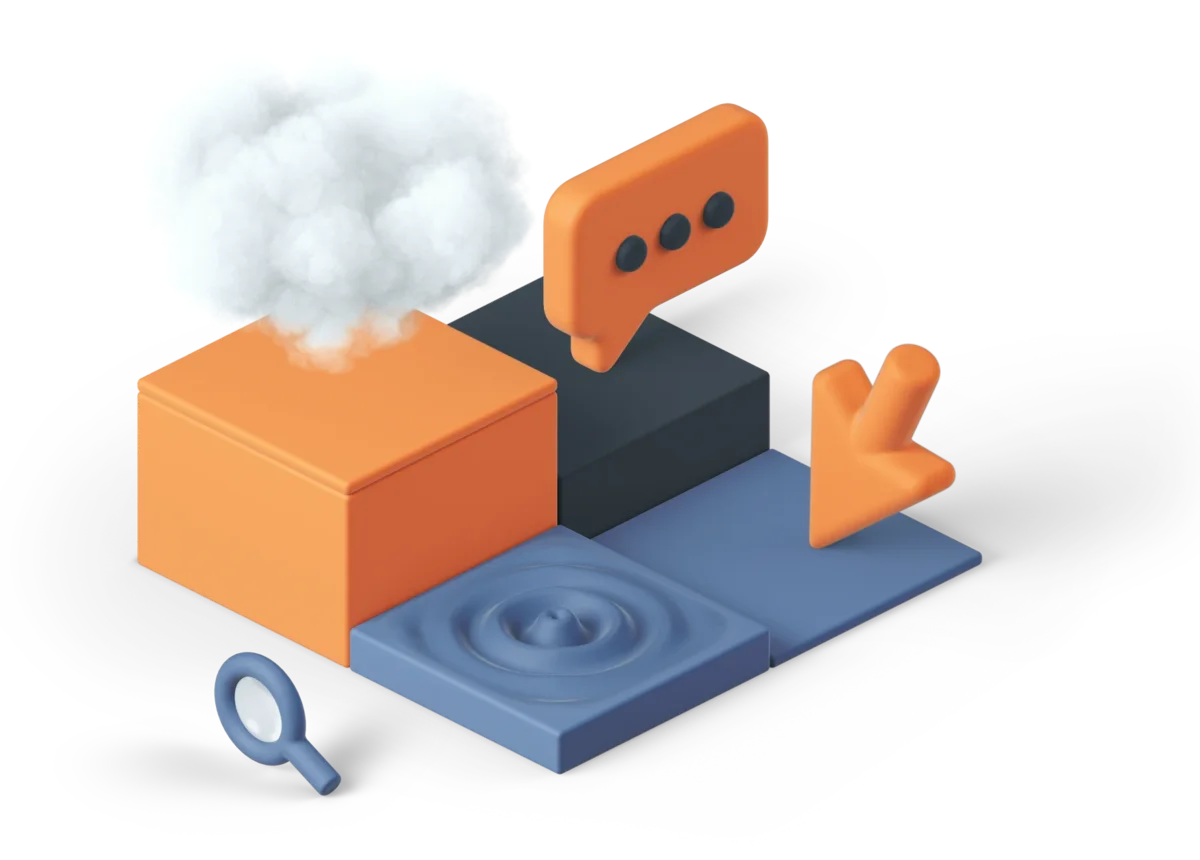
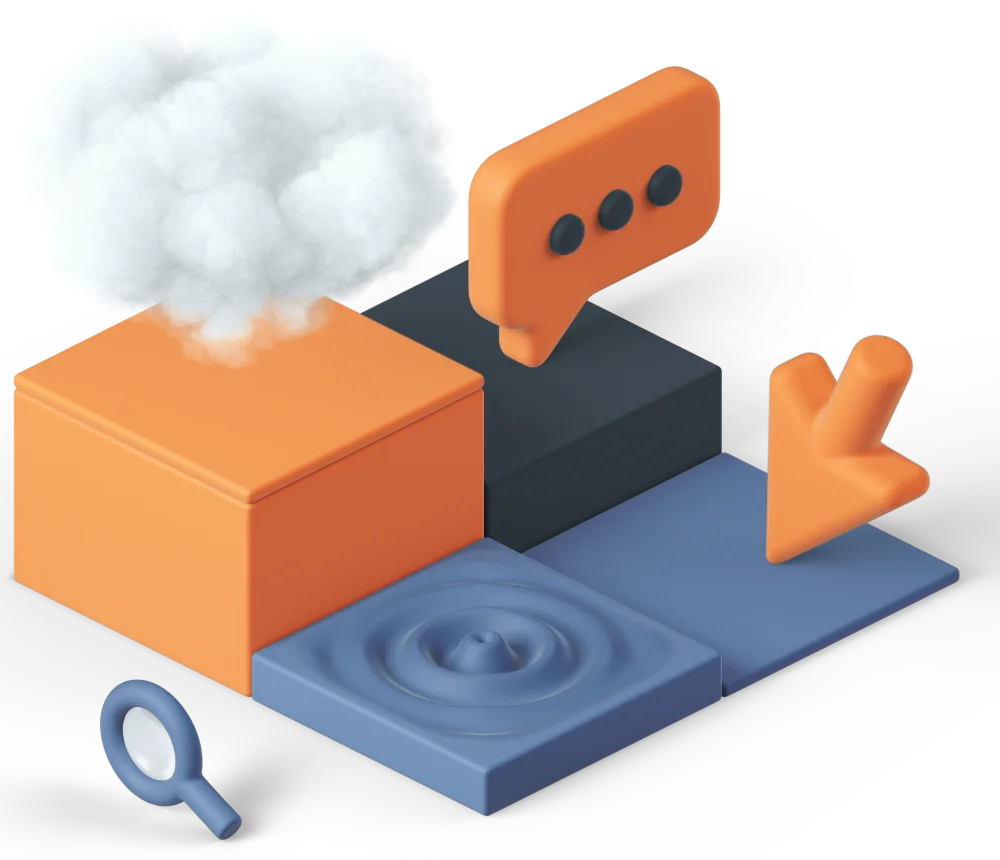
fix: update images & styles for notification feature component

diff --git a/practices/practice-two/src/assets/stylesheets/sections/_notification-feature.scss b/practices/practice-two/src/assets/stylesheets/sections/_notification-feature.scss
@@ -18,7 +18,11 @@
 
   &-content {
     @include only-for-tablet() {
-      width: 30%;
+      width: 40%;
+
+      .text-xl {
+        max-width: 75%;
+      }
     }
   }
 
@@ -36,27 +40,16 @@
 
   &-image {
     @extend %text-center;
-    width: 120%;
-
-    @include only-for-tablet() {
-      position: absolute;
-      right: -20px;
-      width: 100%;
-    }
-
-    @include only-for-desktop() {
-      right: -150px;
-      width: 75%;
-    }
+    order: 1;
   }
 
   .img-item {
     @include only-for-tablet() {
-      width: 600px;
+      width: 500px;
     }
 
     @include only-for-desktop() {
-      width: 878px;
+      width: 670px;
     }
   }
 }

diff --git a/practices/practice-two/src/components/NotificationFeature/index.tsx b/practices/practice-two/src/components/NotificationFeature/index.tsx
@@ -33,8 +33,8 @@ export const NotificationFeature = memo(({ onFindOut }: NotificationFeatureProps
         }
       }}
       imageSize = {{
-        width:684,
-        height:487
+        width:360,
+        height:310
       }}
       subTitle="Amazing features"
       title="Never forget anything, ever again"
